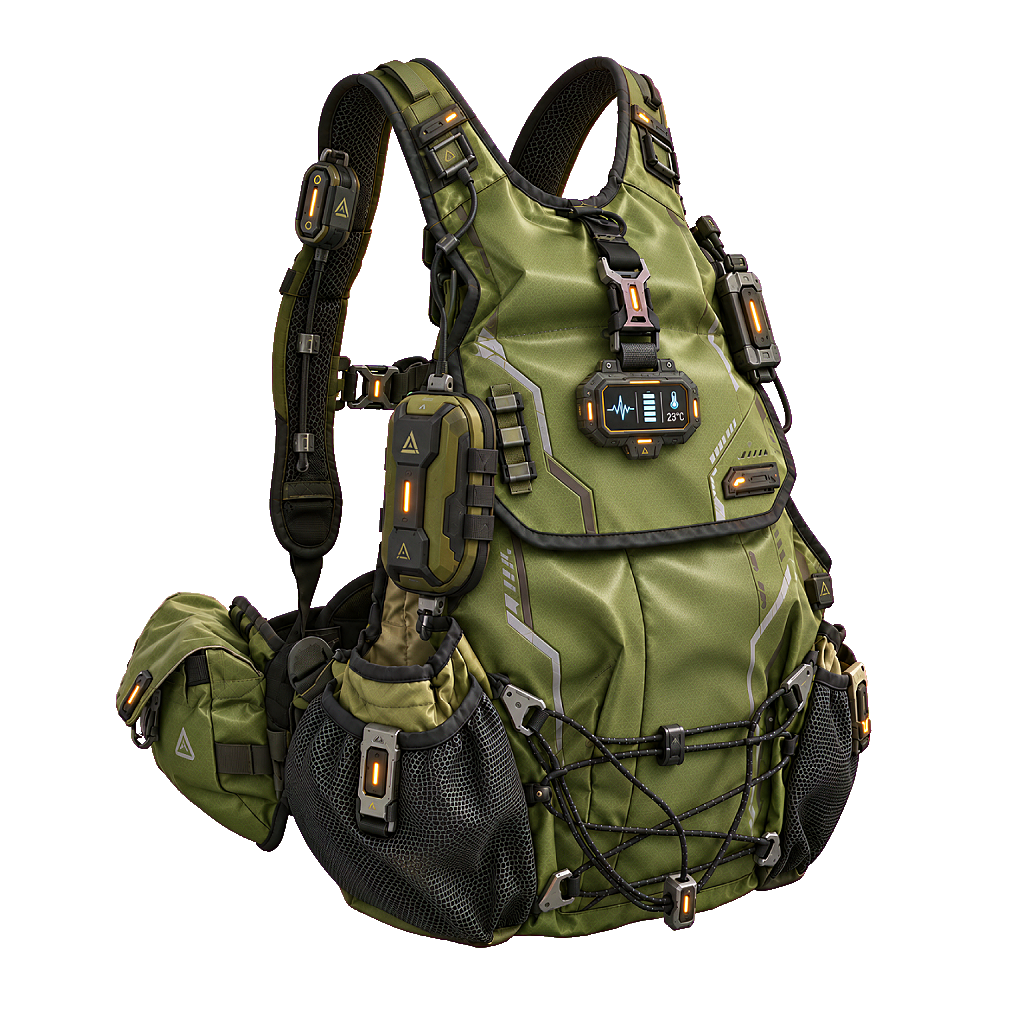
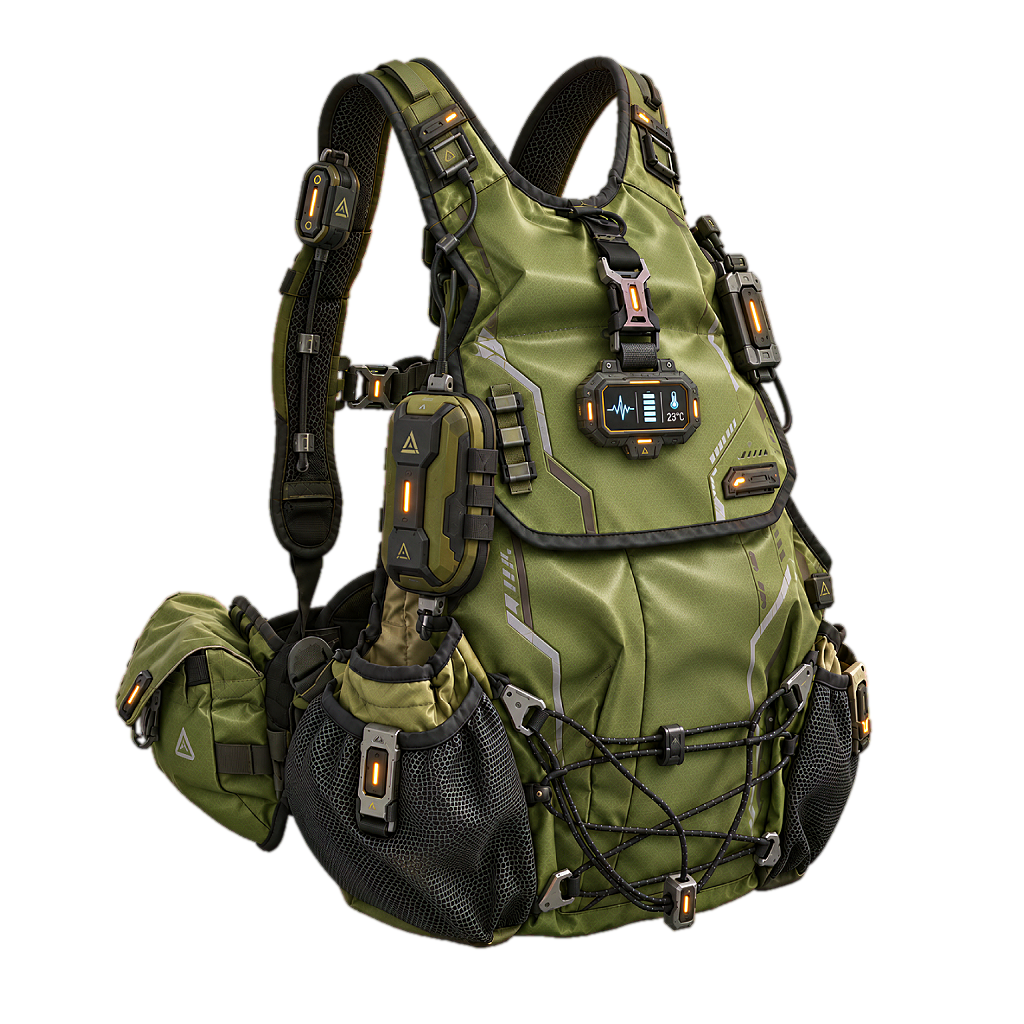
updata

diff --git a/app/movement-lab.tsx b/app/movement-lab.tsx
@@ -4120,6 +4120,7 @@ export function MovementLab() {
   const [hotbarAssignments, setHotbarAssignments] = useState<(string | null)[]>(
     () => [...DEFAULT_HOTBAR_ASSIGNMENTS],
   );
+  const [backpackDropTarget, setBackpackDropTarget] = useState(false);
   const [inventoryDrag, setInventoryDrag] = useState<InventoryDragState | null>(null);
   const [hotbarDropTarget, setHotbarDropTarget] = useState<number | null>(null);
   const [inventoryContextMenu, setInventoryContextMenu] =
@@ -6550,6 +6551,9 @@ export function MovementLab() {
     };
   };
 
+  const isBackpackEquipmentAtPoint = (x: number, y: number) =>
+    Boolean(document.elementFromPoint(x, y)?.closest("[data-inventory-equipment='true']"));
+
   const startInventoryDrag = (pending: PendingInventoryDrag, x: number, y: number) => {
     if (pendingInventoryDragRef.current !== pending) return;
     pending.active = true;
@@ -6573,7 +6577,7 @@ export function MovementLab() {
     event: ReactPointerEvent<HTMLButtonElement>,
     itemId: string,
   ) => {
-    if (event.button !== 0 || ITEM_BY_ID.get(itemId)?.backpackCapacityKg) return;
+    if (event.button !== 0) return;
     const pending: PendingInventoryDrag = {
       itemId,
       pointerId: event.pointerId,
@@ -6608,7 +6612,9 @@ export function MovementLab() {
     setInventoryDrag((current) => current
       ? { ...current, x: pointer.x, y: pointer.y }
       : current);
-    setHotbarDropTarget(getHotbarSlotAtPoint(event.clientX, event.clientY));
+    const backpack = Boolean(ITEM_BY_ID.get(pending.itemId)?.backpackCapacityKg);
+    setBackpackDropTarget(backpack && isBackpackEquipmentAtPoint(event.clientX, event.clientY));
+    setHotbarDropTarget(backpack ? null : getHotbarSlotAtPoint(event.clientX, event.clientY));
   };
 
   const finishInventoryDrag = (event: ReactPointerEvent<HTMLButtonElement>) => {
@@ -6618,9 +6624,14 @@ export function MovementLab() {
     if (pending.active) {
       event.preventDefault();
       suppressInventoryClickRef.current = true;
-      const slotIndex = getHotbarSlotAtPoint(event.clientX, event.clientY);
-      if (slotIndex !== null) {
-        setHotbarSlotAssignment(slotIndex, pending.itemId);
+      if (ITEM_BY_ID.get(pending.itemId)?.backpackCapacityKg) {
+        if (isBackpackEquipmentAtPoint(event.clientX, event.clientY)) {
+          const feedbackSlot = ITEM_DATABASE.findIndex(slot => slot.item?.id === pending.itemId);
+          openItemUseConfirmation(pending.itemId, feedbackSlot);
+        }
+      } else {
+        const slotIndex = getHotbarSlotAtPoint(event.clientX, event.clientY);
+        if (slotIndex !== null) setHotbarSlotAssignment(slotIndex, pending.itemId);
       }
       window.setTimeout(() => {
         suppressInventoryClickRef.current = false;
@@ -6628,6 +6639,7 @@ export function MovementLab() {
     }
     pendingInventoryDragRef.current = null;
     setInventoryDrag(null);
+    setBackpackDropTarget(false);
     setHotbarDropTarget(null);
   };
 
@@ -6637,6 +6649,7 @@ export function MovementLab() {
     if (pending.timerId !== null) window.clearTimeout(pending.timerId);
     pendingInventoryDragRef.current = null;
     setInventoryDrag(null);
+    setBackpackDropTarget(false);
     setHotbarDropTarget(null);
   };
 
@@ -8352,6 +8365,7 @@ export function MovementLab() {
       }
       pendingInventoryDragRef.current = null;
       setInventoryDrag(null);
+      setBackpackDropTarget(false);
       setHotbarDropTarget(null);
       setInventoryContextMenu(null);
     }
@@ -17605,7 +17619,7 @@ export function MovementLab() {
                   <div className="inventory-bag-art">
                     {equippedBackpackItem ? (
                       <button
-                        className={`inventory-item inventory-backpack-equipment is-${equippedBackpackItem.category}${selectedEquippedBackpack ? " is-selected" : ""}`}
+                        className={`inventory-item inventory-backpack-equipment is-${equippedBackpackItem.category}${backpackDropTarget ? " is-drop-target" : ""}${selectedEquippedBackpack ? " is-selected" : ""}`}
                         type="button"
                         data-inventory-equipment="true"
                         aria-pressed={selectedEquippedBackpack}
@@ -17901,7 +17915,7 @@ export function MovementLab() {
             ) : draggedInventoryItem.symbol}
           </span>
           <strong>{draggedInventoryItem.name}</strong>
-          <small>拖曳至快捷格</small>
+          <small>{draggedInventoryItem.backpackCapacityKg ? "拖曳至背包裝備格" : "拖曳至快捷格"}</small>
         </div>
       ) : null}
 

diff --git a/app/item-database.ts b/app/item-database.ts
@@ -1041,9 +1041,9 @@ export const ITEM_DATABASE: readonly ItemDatabaseSlot[] = [
       inventoryRules: { transferable: true, discardable: true, stackSize: 99 },
     },
   },
-  { slot: 65, item: { id:"T0011", englishName:"basic-backpack", name:"10kg 基礎背包", symbol:"▣", category:"tool", weight:0.5, usable:true, backpackCapacityKg:10, artworkStem:"basic-backpack", artworkInspectSize:1024, description:"輕量織物與加固背帶構成的入門背包。遊戲開始時固定裝在背包裝備格，提供 10kg 負重上限；不佔一般背包格，不能卸下或丟棄。", survivalEffects:{}, inventoryRules:{transferable:true,discardable:true,stackSize:1} } },
-  { slot: 66, item: { id:"T0012", englishName:"survival-backpack", name:"30kg 生存背包", symbol:"▣", category:"tool", weight:0.8, usable:true, backpackCapacityKg:30, artworkStem:"survival-backpack", artworkInspectSize:1024, description:"強化分艙與承重骨架的背包升級材料。需先裝備 10kg 基礎背包；確認升級會消耗此道具，與原背包整併於固定裝備格，將負重上限提升至 30kg。暫不升級則佔一般背包一格、重 0.8kg。", survivalEffects:{}, inventoryRules:{transferable:true,discardable:true,stackSize:1} } },
-  { slot: 67, item: { id:"T0013", englishName:"powered-backpack", name:"50kg 動力背包", symbol:"▣", category:"tool", weight:1, usable:true, backpackCapacityKg:50, artworkStem:"powered-backpack", artworkInspectSize:1024, description:"整合輔助承重框架的背包升級材料。需先裝備 30kg 生存背包；確認升級會消耗此道具，與原背包整併於固定裝備格，將負重上限提升至 50kg。未升級時佔一般背包一格、重 1.0kg。", survivalEffects:{}, inventoryRules:{transferable:true,discardable:true,stackSize:1} } },
+  { slot: 65, item: { id:"T0011", englishName:"basic-backpack", name:"10kg 基礎背包", symbol:"▣", category:"tool", weight:0.5, usable:true, backpackCapacityKg:10, artworkStem:"basic-backpack", artworkInspectSize:1024, description:"輕量織物與加固背帶構成的入門背包。提供 10kg 負重上限；不能卸下或丟棄。", survivalEffects:{}, inventoryRules:{transferable:true,discardable:true,stackSize:1} } },
+  { slot: 66, item: { id:"T0012", englishName:"survival-backpack", name:"30kg 生存背包", symbol:"▣", category:"tool", weight:0.8, usable:true, backpackCapacityKg:30, artworkStem:"survival-backpack", artworkInspectSize:1024, description:"強化硬殼與承重的升級背包。可外掛許多裝備提高泛用性。負重上限提升至 30kg。需先裝備基礎背包。", survivalEffects:{}, inventoryRules:{transferable:true,discardable:true,stackSize:1} } },
+  { slot: 67, item: { id:"T0013", englishName:"powered-backpack", name:"50kg 動力背包", symbol:"▣", category:"tool", weight:1, usable:true, backpackCapacityKg:50, artworkStem:"powered-backpack", artworkInspectSize:1024, description:"搭載輔助外骨骼的動力背包。能極大減輕裝備者的負擔。需先裝備生存背包；負重上限提升至 50kg。", survivalEffects:{}, inventoryRules:{transferable:true,discardable:true,stackSize:1} } },
   { slot: 68, item: null },
   { slot: 69, item: null },
   { slot: 70, item: null },

diff --git a/app/backpack-container.css b/app/backpack-container.css
@@ -20,10 +20,10 @@
 .backpack-container.is-full .flap .lid-fill{top:4.5px;background-position:0 2.1px;background-color:#d83b46}
 .backpack-container.is-empty .body:before,.backpack-container.is-empty .side:before,.backpack-container.is-empty .lid-fill{opacity:0}
 .inventory-dialog .inventory-bag-art{position:relative;min-height:116px}
-.inventory-dialog .inventory-bag-art > .backpack-container{transform:translateX(14px)}
-.inventory-dialog .inventory-backpack-equipment{position:absolute;z-index:1;left:0;top:calc(50% - 42px);width:60px;height:60px;min-height:0;grid-template-rows:1fr;padding:3px}
+.inventory-dialog .inventory-bag-art > .backpack-container{transform:translate(0,14px) scale(1.2);transform-origin:center}
+.inventory-dialog .inventory-backpack-equipment{position:absolute;z-index:1;left:0;top:8px;width:60px;height:60px;min-height:0;grid-template-rows:1fr;padding:3px}
 .inventory-dialog .inventory-backpack-equipment:focus,.inventory-dialog .inventory-backpack-equipment:focus-visible{outline:none}
-.inventory-dialog .inventory-backpack-equipment .inventory-item-icon{width:46px;height:50px;transform:none}
+.inventory-dialog .inventory-backpack-equipment .inventory-item-icon{width:56px;height:56px;transform:none}
 .inventory-dialog .inventory-backpack-equipment .inventory-item-icon>.backpack-container{zoom:.4}
 .inventory-item-icon>.backpack-container{zoom:.55}
 .inventory-feature-art .backpack-container{transform:scale(1.8)}
@@ -32,3 +32,5 @@
   .inventory-dialog .inventory-category-stats{padding-top:6px}
   .inventory-dialog .inventory-category-stats p{margin:4px 0}
 }
+
+.inventory-dialog .inventory-backpack-equipment.is-drop-target{background-color:#284a50;box-shadow:inset 0 0 0 2px #ffe3a0,inset 0 0 22px #dfb35e55;--cell-edge:linear-gradient(135deg,#fff4ce,#e6bf6c 50%,#fff4ce)}

diff --git a/scripts/key-backpack-inspect.py b/scripts/key-backpack-inspect.py
@@ -1,0 +1,73 @@
+"""Requires Pillow and NumPy. Never alters source images or canvas geometry."""
+from PIL import Image,ImageFilter,ImageDraw
+import numpy as np
+from pathlib import Path
+import os,json,hashlib
+root=Path(__file__).resolve().parents[1]
+import argparse
+parser=argparse.ArgumentParser(description='Key original 1024px backpack sources without resizing or cropping.')
+parser.add_argument('--output',type=Path,required=True)
+out=parser.parse_args().output;out.mkdir(parents=True,exist_ok=True)
+report=[]
+for name,stem,size in [(n,s,z) for n,s in [('10kg','basic-backpack'),('30kg','survival-backpack'),('50kg','powered-backpack')] for z in [1024]]:
+ src=root/'Assets/Objects'/f'{name}_{size}.png';im=Image.open(src).convert('RGB');rgb=np.asarray(im).astype(np.float32);r,g,b=rgb.transpose(2,0,1);ex=g-np.maximum(r,b)
+ # Vivid chroma green only; olive fabric and cyan displays are excluded.
+ bg=(g>110)&(ex>85)&(g>1.8*np.maximum(r,b))
+ bg |= (g-r>120)&(g-b>35)&(g>140)
+ near=np.asarray(Image.fromarray(bg.astype('uint8')*255).filter(ImageFilter.MaxFilter(7)))>0
+ fg=(~bg)&(ex<22)
+ # Pillow float blur is unsupported on some builds: blur normalized byte channels.
+ def blur(a):return np.asarray(Image.fromarray(np.uint8(np.clip(a,0,255))).filter(ImageFilter.BoxBlur(3))).astype(np.float32)
+ weight=blur(fg*255)/255
+ estimated=np.stack([blur(rgb[:,:,c]*fg)/np.maximum(weight,.001) for c in range(3)],axis=-1)
+ fe=estimated[:,:,1]-np.maximum(estimated[:,:,0],estimated[:,:,2]);fe=np.clip(fe,-30,18)
+ key=np.median(rgb[bg],axis=0);ke=key[1]-max(key[0],key[2])
+ edge=near&(~bg)&(ex>12)
+ alpha=np.ones(g.shape,np.float32);alpha[bg]=0
+ alpha[edge]=np.clip((ke-ex[edge])/(ke-fe[edge]),0,1)
+ result=rgb.copy();a=alpha[edge,None];result[edge]=np.clip((rgb[edge]-(1-a)*key)/np.maximum(a,.02),0,255)
+ # Remove remaining green spill only on the chroma-contaminated boundary.
+ result[:,:,1][edge]=np.minimum(result[:,:,1][edge],np.maximum(result[:,:,0][edge],result[:,:,2][edge])+np.maximum(fe[edge],0))
+ # The sources contain magenta ringing beside the green screen. Keying green
+ # alone leaves that fringe opaque. Correct chroma only within four pixels of
+ # the matte; retain luminance so seams and narrow straps keep their detail.
+ band=np.asarray(Image.fromarray(bg.astype('uint8')*255).filter(ImageFilter.MaxFilter(9)))>0
+ reliable=(~band)&(alpha>.99)
+ def boxmean(arr,radius=8):
+  padded=np.pad(arr,((radius,radius),(radius,radius)),mode='constant')
+  integral=np.pad(padded,((1,0),(1,0))).cumsum(0).cumsum(1)
+  k=radius*2+1
+  return (integral[k:,k:]-integral[:-k,k:]-integral[k:,:-k]+integral[:-k,:-k])/(k*k)
+ weights=boxmean(reliable.astype(float))
+ local=np.stack([boxmean(rgb[:,:,c]*reliable)/np.maximum(weights,1e-8) for c in range(3)],axis=-1)
+ luma=np.array([.2126,.7152,.0722])
+ local_chroma=local-(local@luma)[:,:,None]
+ # Fall back to neutral for sub-pixel features without a reliable interior.
+ local_chroma[weights<.015]=0
+ pink=band&(alpha>0)&(np.minimum(result[:,:,0],result[:,:,2])-result[:,:,1]>3)
+ result[pink]=np.clip((result@luma)[pink,None]+local_chroma[pink],0,255)
+ # Soften the matte with a 1px Gaussian, without blurring the item's texture.
+ # Extend foreground RGB into newly translucent pixels using premultiplied
+ # color, so neither transparent black nor the original green leaks in.
+ def feather(arr):
+  kernel=np.exp(-np.arange(-3,4,dtype=float)**2/2)
+  kernel/=kernel.sum()
+  padded=np.pad(arr,((0,0),(3,3)),mode='edge')
+  horizontal=sum(w*padded[:,i:i+arr.shape[1]] for i,w in enumerate(kernel))
+  padded=np.pad(horizontal,((3,3),(0,0)),mode='edge')
+  return sum(w*padded[i:i+arr.shape[0],:] for i,w in enumerate(kernel))
+ softened=feather(alpha)
+ extended=(alpha==0)&(softened>0)
+ for channel in range(3):
+  color=feather(result[:,:,channel]*alpha)/np.maximum(softened,1e-8)
+  result[:,:,channel][extended]=color[extended]
+ alpha=softened
+ rgba=np.dstack((np.uint8(np.rint(result)),np.uint8(np.rint(alpha*255))));rgba[alpha==0,:3]=0
+ cut=Image.fromarray(rgba,'RGBA');assert cut.size==(size,size);cut.save(out/f'{name}_{size}-cutout.png')
+ kind='icon' if size==280 else 'inspect';cut.save(out/f'{stem}-{kind}-{size}.png')
+ feather_band=np.asarray(Image.fromarray(band.astype('uint8')*255).filter(ImageFilter.MaxFilter(7)))>0
+ core=(~feather_band);assert np.array_equal(rgba[:,:,:3][core],np.asarray(im)[core]);assert np.all(rgba[:,:,3][core]==255)
+ report.append(dict(source=name,size=im.size,key=key.tolist(),feather_sigma_px=1,transparent=int((rgba[:,:,3]==0).sum()),semi=int(((rgba[:,:,3]>0)&(rgba[:,:,3]<255)).sum()),bounds=cut.getbbox(),core_pixels_preserved=int(core.sum()),fringe_pixels_corrected=int(pink.sum()),source_sha256=hashlib.sha256(src.read_bytes()).hexdigest()))
+
+
+(out/'report.json').write_text(json.dumps(report,indent=2));print(json.dumps(report,indent=2))
